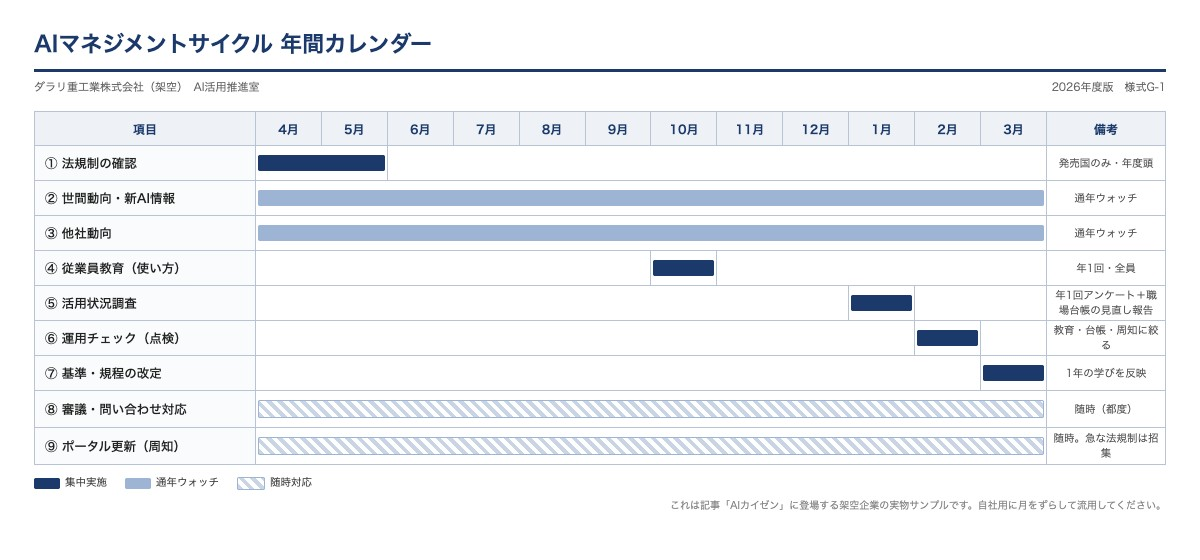
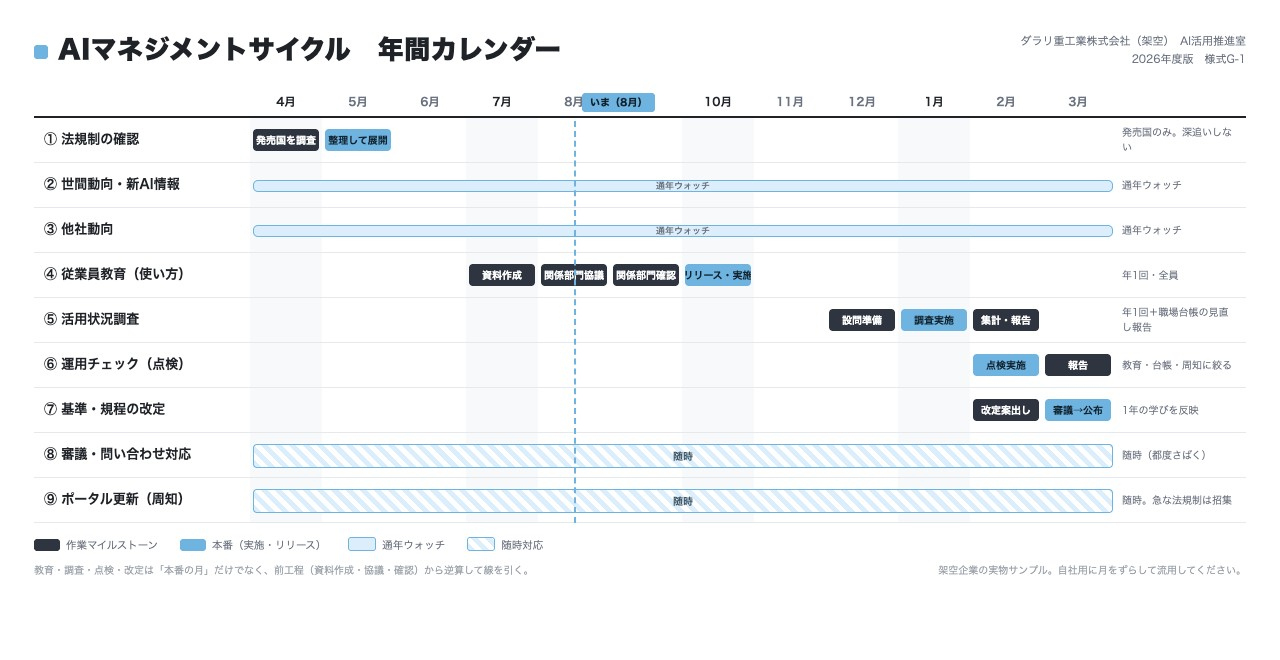
深夜の追加裁定を反映: 機密は区分A可に緩和・図解6枚を011/015に挿入・カレンダーv2(マイルストーン分解)・026にDeepSeek実話・Search Console指示文

diff --git a/drafts/search-console_別セッション指示文.md b/drafts/search-console_別セッション指示文.md
@@ -1,0 +1,35 @@
+# Google Search Console 登録 — ブラウザ操作セッション用の指示文（2026-08-12作成）
+
+darariがブラウザ操作用の別Claude Codeセッションに貼る指示文。Cloudflare接続のときと同じ方式。
+
+---
+
+Google Search Console の登録作業をお願いします。ブラウザ操作（playwright MCP）で進めてください。
+ぼく（darari）が横にいるので、ログイン画面が出たら一旦止めて、ぼくに操作を渡してください。
+パスワード・認証コードは絶対にチャットに書かせないでください。
+
+## 背景
+- 静的サイト「AIカイゼン」を https://darari-nu.com で公開済み（Cloudflare Pages。DNSはCloudflareで管理）
+- sitemapは https://darari-nu.com/sitemap-index.xml に生成済み（robots.txtにも記載済み）
+- 目的: Search Consoleに「ドメイン」プロパティを登録し、sitemapを送信する
+
+## やること（この順番で）
+
+### Phase A: プロパティ登録
+1. https://search.google.com/search-console を開く → Googleログインはぼくがやる
+2. 「プロパティを追加」→ 種類は「**ドメイン**」を選び、darari-nu.com を入力
+   （URLプレフィックス型ではなくドメイン型。wwwや将来のサブドメインまで一括計測できるため）
+3. 所有権確認用のTXTレコード（google-site-verification=… という文字列）が表示されたらコピーして控える
+
+### Phase B: CloudflareのDNSにTXTを1行追加
+4. 新しいタブで https://dash.cloudflare.com → ログインはぼく
+5. darari-nu.com → DNS → Add record: **Type=TXT / Name=@ / Content=（手順3の値）/ TTL=Auto**
+6. Search Consoleのタブに戻って「確認」を押す。失敗したら数分待って再試行（DNSの反映待ち。最大で数十分）
+
+### Phase C: sitemap送信と仕上げ
+7. 所有権確認が通ったら、左メニュー「サイトマップ」→ `https://darari-nu.com/sitemap-index.xml` を入力して送信 → ステータスが「成功しました」になるのを確認
+8. 完了報告として次を教えて: ①所有権確認OKの画面 ②sitemap送信のステータス ③詰まった箇所
+
+## 注意
+- Cloudflareの既存DNSレコードは消さない・編集しない（TXTを1行**足すだけ**）
+- 登録直後は「データを処理しています」表示が数日続くのが正常。何も出なくても焦らない

diff --git a/src/content/articles/011-dare-ga-itta.md b/src/content/articles/011-dare-ga-itta.md
@@ -30,6 +30,8 @@ draft: true
 
 ツールの中身も、月2,000円という金額も、何ひとつ変わっていません。変わったのは「誰が言ったか」だけです。
 
+![同じ月2,000円のツールが、部長の判断では廃止、本部長の一言では継続。結論は「誰が言ったか」で決まるという図解](/images/articles/011-zukai-1.png)
+
 ## 嘆くのは1日でやめて、構造として見る
 
 「中身で判断してくれよ！」と言いたくなりますよね。ぼくも、そりゃあ言いたくなりました。
@@ -85,6 +87,8 @@ AIも同じ道をたどると、ぼくは信じています。
 
 問題は、その日が来たとき、あなたが**すぐ走り出せる状態か**です。
 
+![スマホは「遊んでるのか」から「仕事に必須」へ変わった。AIも「誰が言ったかで止まる」から「当たり前になる日が来る」。その日すぐ走り出せるかが問題という図解](/images/articles/011-zukai-2.png)
+
 ## 準備とは、頭の中をデータにしておくこと
 
 AIは、頭の中を読めません。読めるのは、データになっているものだけです。
@@ -104,6 +108,8 @@ AIは、頭の中を読めません。読めるのは、データになってい
 判断したら、理由を1行書く。手順を教えたら、教えた内容をメモに起こす。
 
 こうして仕事がAIの読める形で残っていく状態が、「AI前提で仕事が回る」ということだと思っています。
+
+![頭の中の決めた理由・手順のコツ・経緯はAIが読めない。テキストにして残せばAIが読める。頭の中をデータに残すのが準備という図解](/images/articles/011-zukai-3.png)
 
 誰の稟議も要りません。月2,000円もかかりません。
 

diff --git a/drafts/添削の学び/log/20260812_検品回収_夜_第2陣.md b/drafts/添削の学び/log/20260812_検品回収_夜_第2陣.md
@@ -16,6 +16,13 @@
 | 029 | 「規定にあることを確認。なかったら規定改定だよw」 | 「質問と規程はセット」の思想を記事化＋第16条改定 |
 | 026/031 | 「薄っぺらい」「解像度が低い。Webで調べて」 | B5適用（Web裏取りで拡充）。026は一次体験の追加を本人に依頼中 |
 
+## 深夜の追加裁定（8/12）
+
+- 機密の扱い: 「うちはClaudeとChatGPTエンタープライズはマル秘まで入れてオッケー」→ 判断表を再改定。機密=区分A可・区分B不可。承認は大量一括のみに
+- 図解の路線: 「いいね！こんな感じでいいよ」→ 承認。011×3枚・015×3枚前後を量産して挿入
+- 026の実話: 「海外の事業部からDeepSeekのこと教えてもらった」→ 「アンテナは人からも生える」節として追記（B1: 本人供給の一次体験）
+- カレンダー: 「もうちょいかっこよく。4-7は1ヶ月で終わらんでしょ」→ v2でマイルストーン分解（教育=資料作成→協議→確認→リリース等）
+
 ## 気づき
 
 - 「見せてもらえれば判断する」型が定着: 図解・カレンダー・実演スクショなど、**問いで返すより実物を作って見せる方が一発で進む**（E6の運用面）

diff --git a/src/content/articles/026-doukou-watch.md b/src/content/articles/026-doukou-watch.md
@@ -106,6 +106,18 @@ ChatGPTやClaudeに、何ができるようになったか。
 
 組むなら、ぼくはこの濃淡にします。
 
+## アンテナは、人からも生えます
+
+白状すると、いちばん大きい動向は、検索では拾えませんでした。
+
+中国のAI、DeepSeekの存在を最初にぼくに教えてくれたのは、Web検索ではなく、海外の事業部の人です。「現地でこういうAIが話題になってるんだけど」と。
+
+毎日ウォッチしていたのに、です。
+
+現地で起きていることは、現地の人がいちばん速い。当たり前ですが、机の上のウォッチだけでは負けるんです。
+
+だから「AIの話、なんか見かけたら教えてください」と社内に言って回るのも、立派なウォッチ網です。教えてもらったDeepSeekがそのあとどんな騒ぎになったかは、[別の記事](/articles/031-ai-consul/)に書きました。
+
 ## 拾いっぱなしが、いちばんもったいない
 
 動向ウォッチが軽んじられる理由は、拾った情報がそのまま消えていくからです。
